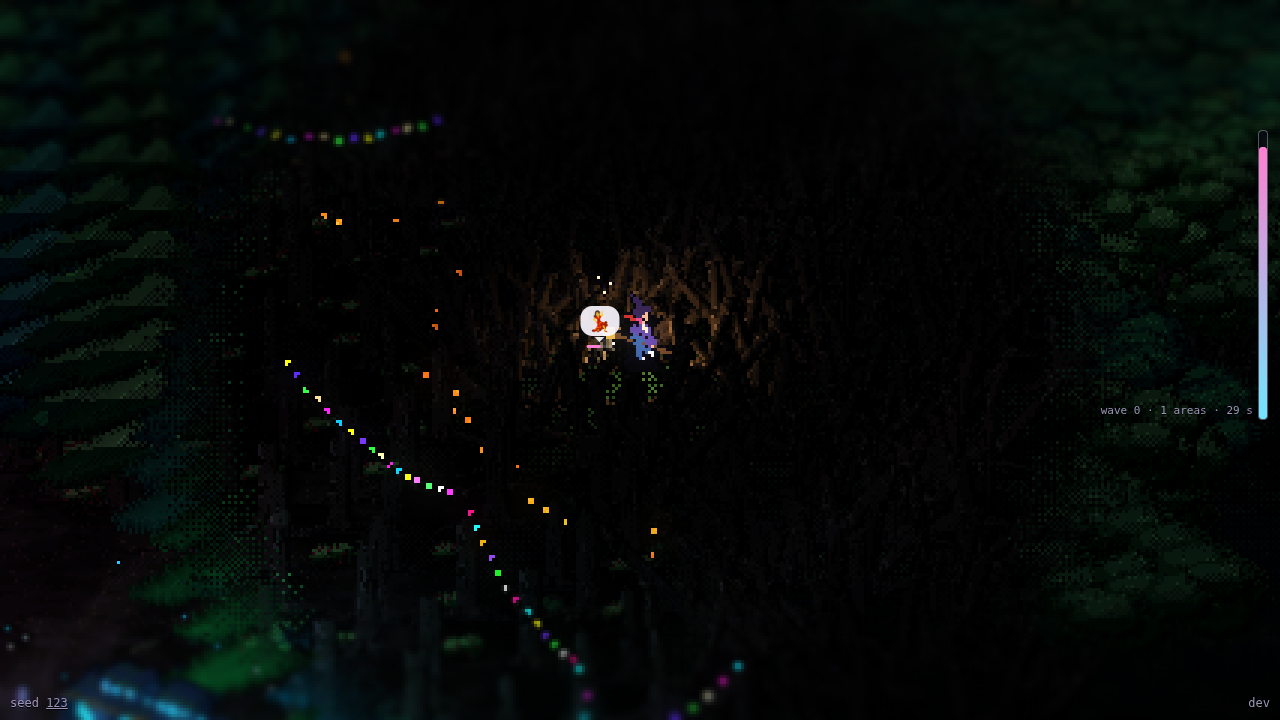
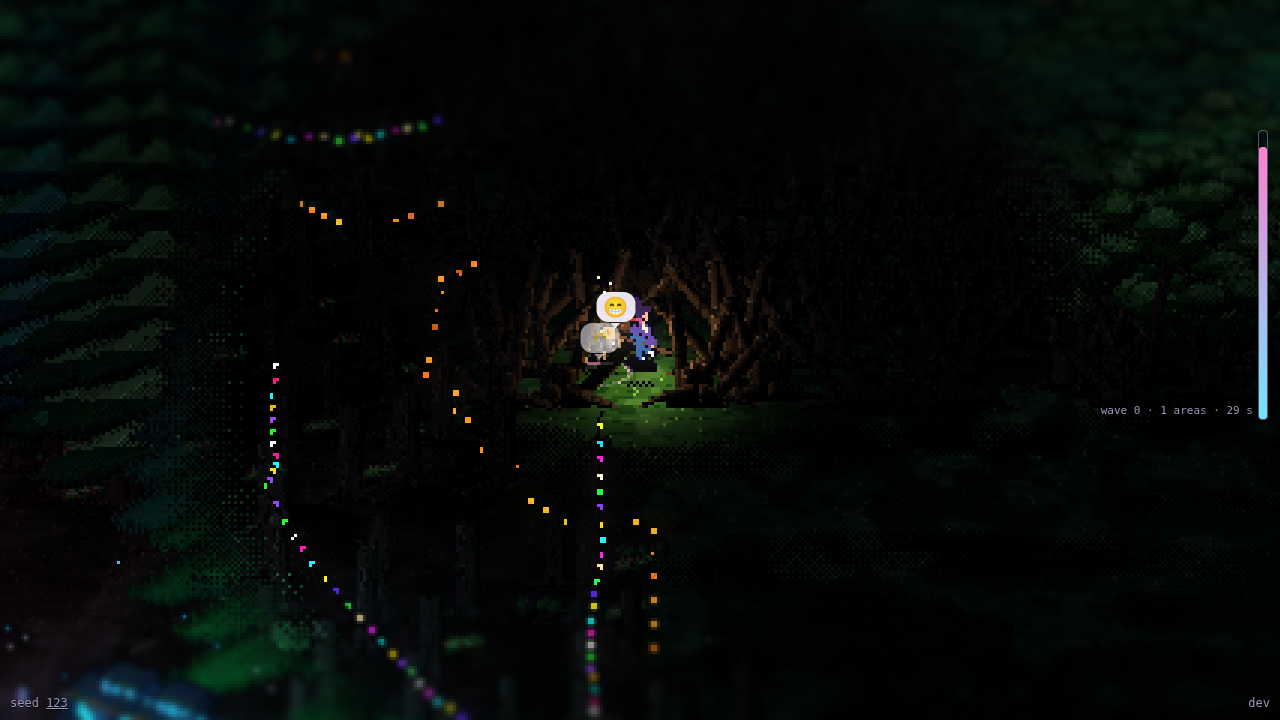
Quick tunings: no tree shadows, trees x0.8, bushes x0.45 in clumps, lasers 6x slower, Talk on F too and Sigil on R, talkRange 12, sigil stack above her hat at 65% as a chain of springs, facing towards unless heading up the screen
Claude-Session: https://claude.ai/code/session_01MR6jyHx6mcGYyfzATvhXK3

diff --git a/src/render/leash.ts b/src/render/leash.ts
@@ -108,6 +108,8 @@ export class LeashView {
   private flat: Instances;
   private fizzles: { x: number; z: number; at: number }[] = [];
   private bursts: { x: number; z: number; at: number; seed: number }[] = [];
+  private chain: { x: number; z: number; vx: number; vz: number }[] = [];
+  private lastTime = 0;
   private bubbleWitch = document.getElementById("bubble-witch");
   private bubbleCreature = document.getElementById("bubble-creature");
   private v = new THREE.Vector3();
@@ -157,7 +159,8 @@ export class LeashView {
     return [x / N, 1 - y / N, (x + SLOT) / N, 1 - (y + SLOT) / N];
   }
 
-  update(time: number, camera: THREE.Camera, width: number, height: number): void {
+  /** hatTop: the height of the tip of her hat this frame (the stack floats above it). */
+  update(time: number, camera: THREE.Camera, width: number, height: number, hatTop: number): void {
     const g = this.game, s = g.leash, t = g.tuning, w = g.witch, B = t.bond, L = t.leash, dot = this.uv(0);
     this.standing.begin(); this.flat.begin();
     for (const e of s.events) {
@@ -184,16 +187,27 @@ export class LeashView {
       }
     }
 
-    // The stack above her head: bottom (newest) nearest; sways, and trails behind when she's fast.
-    const head = witchHeight(w, t) + 1.4, slotPos = new Map<number, THREE.Vector3>();
-    for (let k = 0; k < s.stack.length; k++) {
-      const id = s.stack[k], c = g.creatures[id], j = s.stack.length - 1 - k; // j: 0 at the bottom
-      const sway = Math.sin(time * 1.7 + j * 0.9) * 0.12 * (1 + j * 0.5);
-      const trail = 0.02 * Math.pow(j + 1, 1.3);
-      const x = w.x + sway - w.vx * trail, z = w.z - w.vz * trail, y = head + 1.3 + j * 2.4;
-      slotPos.set(id, new THREE.Vector3(x, y, z));
+    // The stack above her hat: newest at the bottom. A chain of springs: each sigil follows the
+    // one below with lag, so the stack trails behind her flight in proportion to speed, overshoots
+    // when she stops or turns, and settles into a gentle idle sway; higher ones swing more.
+    const S = t.stack, dt = Math.min(0.1, Math.max(0, time - this.lastTime)), slotPos = new Map<number, THREE.Vector3>();
+    this.lastTime = time;
+    while (this.chain.length < s.stack.length) this.chain.push({ x: 0, z: 0, vx: 0, vz: 0 });
+    let below = { x: 0, z: 0 }, y = hatTop;
+    for (let k = s.stack.length - 1; k >= 0; k--) {
+      const id = s.stack[k], c = g.creatures[id], j = s.stack.length - 1 - k, link = this.chain[j]; // j: 0 at the bottom
+      const size = (2 + c.level * 0.4) * S.scale;
+      const idle = Math.sin(time * 1.7 + j * 0.9) * S.idleSway * (1 + j * 0.5);
+      const tx = below.x - w.vx * S.trail + idle, tz = below.z - w.vz * S.trail;
+      link.vx += ((tx - link.x) * S.stiffness - link.vx * S.damping) * dt; link.vz += ((tz - link.z) * S.stiffness - link.vz * S.damping) * dt;
+      link.x += link.vx * dt; link.z += link.vz * dt;
+      below = link;
+      y += (j === 0 ? S.offset * size : S.gap * size) + size / 2;
+      const pos = new THREE.Vector3(w.x + link.x, y, w.z + link.z);
+      y += size / 2;
+      slotPos.set(id, pos);
       const col = (this.slotOf(c.species, c.level), this.colours.get(c.species)!);
-      this.standing.add(x, y, z, 2 + c.level * 0.4, this.uv(this.slotOf(c.species, c.level)), col.r, col.g, col.b, 1);
+      this.standing.add(pos.x, pos.y, pos.z, size, this.uv(this.slotOf(c.species, c.level)), col.r, col.g, col.b, 1);
     }
 
     // Placed sigils, written on the ground.

diff --git a/src/rules/tuning.ts b/src/rules/tuning.ts
@@ -16,6 +16,8 @@ export interface Tuning {
   gladeAmount: number;
   gladeScale: number;
   bushDensity: number;
+  /** How much bushes gather in clumps with open floor between (0 even, 1 strongly clumped). */
+  bushClump: number;
   treeHeight: number;
   crownWidth: number;
   treeSpacingX: number;
@@ -31,6 +33,8 @@ export interface Tuning {
   /** Acceleration on the ground (snappier than the treetops' acceleration). */
   groundAcceleration: number;
   leanAt: number;
+  /** The away cone round straight up the screen, degrees: enter under awayEnter, leave over awayLeave. */
+  facing: { awayEnter: number; awayLeave: number };
   riseTime: number;
   descendTime: number;
   groundHeight: number;
@@ -56,7 +60,7 @@ export interface Tuning {
     specks: number; speckBrightness: number; speckReach: number;
   };
   canopyCutout: { screenFraction: number; edge: number };
-  shadows: { on: boolean; strength: number };
+  shadows: { on: boolean; strength: number; trees: boolean };
   canopyShadow: { on: boolean; strength: number; height: number; cover: number; wind: number };
   mist: { on: boolean; strength: number; height: number; wind: number };
   /** How mist, far haze and canopy dapple are drawn: smooth gradients, or dithered pixel steps. */
@@ -64,7 +68,8 @@ export interface Tuning {
   lights: { campfire: { reach: number; strength: number }; stone: { reach: number; strength: number } };
   glowPower: number;
   beat: { bpm: number };
-  lasers: { on: boolean; maxCount: number; length: number; spread: number; sweep: number; sweepBeats: number; opacity: number; duty: number; blockBars: number; fadeIn: number; fadeOut: number; fadeNear: number; fadeFar: number };
+  stack: { offset: number; scale: number; gap: number; stiffness: number; damping: number; trail: number; idleSway: number };
+  lasers: { on: boolean; maxCount: number; length: number; spread: number; sweep: number; sweepBeats: number; openBars: number; opacity: number; duty: number; blockBars: number; fadeIn: number; fadeOut: number; fadeNear: number; fadeFar: number };
   borders: { on: boolean; width: number; brightness: number; sparkle: number; step: number };
   invite: { talkRange: number; cancelDistance: number; talkTime: number[]; turn: number[] };
   leash: { length: number; runSpeed: number; pickRadius: number; spacing: number };

diff --git a/src/rules/witch.ts b/src/rules/witch.ts
@@ -16,7 +16,7 @@ export interface WitchState {
   mode: Mode;
   /** 1 facing right (east), -1 facing left. */
   facing: 1 | -1;
-  /** Turned away from the viewer: flying up the screen (north). Changes with a little hysteresis. */
+  /** Turned away from the viewer: only while clearly flying up the screen (see facingAway). */
   away: boolean;
   /** Leaning into fast flight: above leanAt of the mode's top speed. */
   lean: boolean;
@@ -28,6 +28,16 @@ export interface Intent {
   moveZ: number;
   /** Rise or descend was pressed this frame. */
   toggleMode: boolean;
+}
+
+/** Towards the viewer unless clearly heading up the screen (Ed, 2026-10-03): away only while the
+ *  heading is within the away cone round straight up (entering at awayEnter degrees, leaving at
+ *  awayLeave, so diagonals don't flicker) and moving faster than `minSpeed`. Sideways, downward
+ *  or stopped: towards. For the witch and the creatures alike. */
+export function facingAway(vx: number, vz: number, wasAway: boolean, minSpeed: number, t: Tuning): boolean {
+  if (Math.hypot(vx, vz) < minSpeed || vz >= 0) return false;
+  const angle = (Math.atan2(Math.abs(vx), -vz) * 180) / Math.PI; // 0 straight up the screen
+  return angle < (wasAway ? t.facing.awayLeave : t.facing.awayEnter);
 }
 
 export const NO_INTENT: Intent = { moveX: 0, moveZ: 0, toggleMode: false };
@@ -57,8 +67,6 @@ export function stepWitch(w: WitchState, intent: Intent, dt: number, t: Tuning, 
   if (x < bounds.minX || x > bounds.maxX) { x = clamp(x, bounds.minX, bounds.maxX); vx = 0; }
   if (z < bounds.minZ || z > bounds.maxZ) { z = clamp(z, bounds.minZ, bounds.maxZ); vz = 0; }
   const facing: 1 | -1 = vx > 0.3 ? 1 : vx < -0.3 ? -1 : w.facing;
-  // Away when clearly flying north, towards when clearly flying south; sideways keeps the last.
-  const speed = Math.hypot(vx, vz), turn = Math.max(1, max * 0.15);
-  const away = vz < -turn && -vz > Math.abs(vx) * 0.5 ? true : vz > turn && vz > Math.abs(vx) * 0.5 ? false : w.away;
+  const speed = Math.hypot(vx, vz), away = facingAway(vx, vz, w.away, Math.max(1, max * 0.15), t);
   return { x, z, vx, vz, lift, mode, facing, away, lean: speed > max * t.leanAt };
 }

diff --git a/src/render/view.ts b/src/render/view.ts
@@ -302,7 +302,7 @@ export class View {
       add(p.type, { x: p.x, y: 0, z: p.z, frame: f[big.bot], flip: p.flip, fresh });
       if (big.top !== null) add(p.type, { x: p.x, y: 0, z: p.z, frame: f[big.top], flip: p.flip, top: true, fresh });
       const w = whole.w * mpp, h = whole.h * mpp * (big.top === null ? 0.2 : 0.6);
-      shadows.push({ x: p.x + sx * h, z: p.z + sz * h, w: w * 0.8, d: w * 0.45 });
+      if (t.shadows.trees) shadows.push({ x: p.x + sx * h, z: p.z + sz * h, w: w * 0.8, d: w * 0.45 });
       nt++;
     }
     const scatter = (kind: string, list: Plant[], pick: (l: TypeArt["layout"]) => Piece[]) => {
@@ -459,14 +459,15 @@ export class View {
     const bob = Math.sin(time * 2.4) * 0.12;
     // Her hover frames, turned away when flying up the screen, leaning when fast.
     const wf = w.lean ? 6 + (w.away ? 1 : 0) : (w.away ? 3 : 0) + (Math.floor(time * 4) % 3);
-    this.witchBatch.set([{ x: w.x, y: h + bob - 0.4, z: w.z, frame: this.assets.witch.frames[wf], flip: w.facing < 0 }]);
+    const wframe = this.assets.witch.frames[wf], hatTop = h + bob - 0.4 + wframe.h * this.mpp;
+    this.witchBatch.set([{ x: w.x, y: h + bob - 0.4, z: w.z, frame: wframe, flip: w.facing < 0 }]);
     this.shadow.position.set(w.x, 0.03, w.z);
     this.shadow.scale.setScalar(1 - 0.5 * canopyShown(w));
 
     this.refresh();
     this.drawCreatures(time);
     this.checkPops("moving");
-    this.leashView.update(time, this.camera, this.canvas.clientWidth || window.innerWidth, this.canvas.clientHeight || window.innerHeight);
+    this.leashView.update(time, this.camera, this.canvas.clientWidth || window.innerWidth, this.canvas.clientHeight || window.innerHeight, hatTop);
     this.assets.work(6);
     // The ground's area tiles: everything the cameras can see, plus a band ahead.
     this.stats.pendingGround = this.ground.fill(this.renderer, this.viewRect(t.haze.far, 40), w.x, w.z, 4);

diff --git a/src/rules/creatures.ts b/src/rules/creatures.ts
@@ -5,6 +5,7 @@
 // Only those near the witch are simulated; the rest pick up where they would plausibly be.
 import { clamp, hash2, lerp, rng, smoothstep } from "./random";
 import { AREA_TYPES, type ForestMap } from "./map";
+import { facingAway } from "./witch";
 
 export type Level = 0 | 1 | 2 | 3;
 export const LEGEND = 3;
@@ -33,7 +34,7 @@ export interface Creature {
   rest: number;
   speed: number;
   facing: 1 | -1;
-  /** Turned away from the viewer (walking up the screen), with a little hysteresis. */
+  /** Turned away from the viewer: only while walking up the screen (see facingAway). */
   away: boolean;
   moving: boolean;
   /** Walk cycle clock, for the two walking frames. */
@@ -121,7 +122,7 @@ export function spawnCreatures(map: ForestMap): Creature[] {
 /** Roam: walk to a random spot in its own area, pause a while, pick another. It never crosses
  *  its area's border: a step that would cross it is not taken, and it chooses again. */
 export function stepCreature(c: Creature, dt: number, map: ForestMap): void {
-  if (c.rest > 0) { c.rest -= dt; c.moving = false; return; }
+  if (c.rest > 0) { c.rest -= dt; c.moving = false; c.away = false; return; }
   const dx = c.tx - c.x, dz = c.tz - c.z, d = Math.hypot(dx, dz);
   if (d < 0.05) {
     [c.tx, c.tz] = pointInArea(map, c, c.rand);
@@ -133,7 +134,7 @@ export function stepCreature(c: Creature, dt: number, map: ForestMap): void {
   if (!inCell(map, nx, nz, c.cell)) { c.tx = c.x; c.tz = c.z; c.moving = false; return; }
   c.x = nx; c.z = nz;
   if (Math.abs(dx) > 0.02) c.facing = dx > 0 ? 1 : -1;
-  if (dz < -0.3 * d) c.away = true; else if (dz > 0.3 * d) c.away = false; // up the screen is away
+  c.away = facingAway(dx, dz, c.away, 0, map.tuning); // away only while heading up the screen
   c.moving = true;
   c.walk += dt * (c.level === LEGEND ? 1.5 : 4);
 }

diff --git a/src/rules/forest.ts b/src/rules/forest.ts
@@ -2,7 +2,7 @@
 // dropped by the map's tree weight, so trees thicken toward area borders and leave a clearing
 // round each area's centre. Every cell is decided from the seed alone, so any patch of forest
 // can be produced on its own, near the camera, in any order, and always comes out the same.
-import { hash2 } from "./random";
+import { hash2, smoothstep, vnoise } from "./random";
 import { AREA_TYPES, type ForestMap } from "./map";
 
 export interface Plant {
@@ -50,8 +50,10 @@ function bushesInChunk(map: ForestMap, ci: number, cj: number): Plant[] {
   const j0 = Math.ceil((cj * CHUNK) / sp), j1 = Math.ceil(((cj + 1) * CHUNK) / sp);
   const i0 = Math.ceil((ci * CHUNK) / sp), i1 = Math.ceil(((ci + 1) * CHUNK) / sp);
   for (let j = j0; j < j1; j++) for (let i = i0; i < i1; i++) {
-    const x = (i + (hash2(i, j, s + 201) - 0.5) * 0.9) * sp, z = (j + (hash2(i, j, s + 202) - 0.5) * 0.9) * sp;
-    if (hash2(i, j, s + 203) > (0.12 + Math.min(1, map.treeWeight(x, z)) * 0.3) * map.tuning.bushDensity) continue;
+    // A full cell of jitter and a seeded clump mask, so they gather in clumps and gaps rather than rows.
+    const x = (i + hash2(i, j, s + 201) - 0.5) * sp, z = (j + hash2(i, j, s + 202) - 0.5) * sp;
+    const clump = 1 + map.tuning.bushClump * (2 * smoothstep((vnoise(x / 13, z / 13, s + 207) - 0.35) / 0.3) - 1);
+    if (hash2(i, j, s + 203) > (0.12 + Math.min(1, map.treeWeight(x, z)) * 0.3) * map.tuning.bushDensity * clump) continue;
     if (Math.hypot(x - map.dancefloor.x, z - map.dancefloor.z) < map.dancefloor.radius + 2) continue; // the dancefloor stays clear
     out.push({ x, z, type: map.areaAt(x, z).type, variant: Math.floor(hash2(i, j, s + 204) * BUSH_VARIANTS), flip: hash2(i, j, s + 205) < 0.5 });
   }

diff --git a/src/rules/rules.test.ts b/src/rules/rules.test.ts
@@ -5,7 +5,7 @@ import { makePartition } from "./partition";
 import { hash2 } from "./random";
 import { AREA_TYPES, generateMap, parseSeed } from "./map";
 import { Forest, crownReach } from "./forest";
-import { newWitch, stepWitch, witchHeight, NO_INTENT, canopyShown } from "./witch";
+import { newWitch, stepWitch, witchHeight, NO_INTENT, canopyShown, facingAway } from "./witch";
 import { newCamera, stepCamera, cameraPose } from "./camera";
 import { legendChance, population, spawnCreatures, stepCreature, stepCreaturesNear } from "./creatures";
 import { newGame, stepGame } from "./game";
@@ -707,5 +707,18 @@ describe("area borders", () => {
     expect(ok / pts.length).toBeGreaterThan(0.95);
     expect(new Set(pts.map(p => p.other)).size).toBeGreaterThanOrEqual(3);
     console.log(`border: ${pts.length} points in ${ms.toFixed(0)} ms`);
+  });
+});
+
+describe("facing", () => {
+  it("faces the viewer unless clearly heading up the screen, with a little hysteresis on the cone", () => {
+    const deg = (a: number) => [Math.sin((a * Math.PI) / 180) * 10, -Math.cos((a * Math.PI) / 180) * 10] as const;
+    expect(facingAway(...deg(0), false, 1, TUNING)).toBe(true);    // straight up
+    expect(facingAway(...deg(90), true, 1, TUNING)).toBe(false);   // purely sideways: towards, even if it was away
+    expect(facingAway(...deg(180), true, 1, TUNING)).toBe(false);  // down
+    expect(facingAway(0, 0, true, 1, TUNING)).toBe(false);          // stopped
+    const between = (TUNING.facing.awayEnter + TUNING.facing.awayLeave) / 2;
+    expect(facingAway(...deg(between), false, 1, TUNING)).toBe(false); // not yet in
+    expect(facingAway(...deg(between), true, 1, TUNING)).toBe(true);   // not yet out
   });
 });

diff --git a/src/rules/leash.ts b/src/rules/leash.ts
@@ -8,6 +8,7 @@
 // No drawing here.
 import { LEGEND, type Creature } from "./creatures";
 import type { Tuning } from "./tuning";
+import { facingAway } from "./witch";
 
 export interface PlacedSigil { id: number; x: number; z: number; /** game time it was put down */ at: number }
 
@@ -142,12 +143,12 @@ export function stepLeashed(c: Creature, px: number, pz: number, dt: number, t: 
     const d = Math.hypot(c.x - px, c.z - pz), k = (len * 0.5) / d;
     c.tx = px + (c.x - px) * k; c.tz = pz + (c.z - pz) * k;
     c.rest = 0;
-  } else if (c.rest > 0) { c.rest -= dt; c.moving = false; return; }
+  } else if (c.rest > 0) { c.rest -= dt; c.moving = false; c.away = false; return; }
   else if (Math.hypot(c.tx - px, c.tz - pz) > len * 0.85 || Math.hypot(c.tx - c.x, c.tz - c.z) < 0.05) {
     if (Math.hypot(c.tx - c.x, c.tz - c.z) < 0.05) c.rest = 0.5 + c.rand() * 2;
     const a = c.rand() * Math.PI * 2, r = Math.sqrt(c.rand()) * len * 0.8;
     c.tx = px + Math.cos(a) * r; c.tz = pz + Math.sin(a) * r;
-    if (c.rest > 0) { c.moving = false; return; }
+    if (c.rest > 0) { c.moving = false; c.away = false; return; }
   }
   const dx = c.tx - c.x, dz = c.tz - c.z, d = Math.hypot(dx, dz);
   if (d < 1e-4) { c.moving = false; return; }
@@ -155,7 +156,7 @@ export function stepLeashed(c: Creature, px: number, pz: number, dt: number, t: 
   const step = Math.min(d, speed * dt);
   c.x += (dx / d) * step; c.z += (dz / d) * step;
   if (Math.abs(dx) > 0.02) c.facing = dx > 0 ? 1 : -1;
-  if (dz < -0.3 * d) c.away = true; else if (dz > 0.3 * d) c.away = false;
+  c.away = facingAway(dx, dz, c.away, 0, t);
   c.moving = true;
   c.walk += dt * (far ? 7 : 4);
 }

diff --git a/src/platform/input.ts b/src/platform/input.ts
@@ -1,7 +1,7 @@
 // Gathers the player's input from keyboard, gamepad and touch into one set of controls per frame.
 // Keyboard: WASD or arrows to fly, space to rise or descend, Z/X or +/- to zoom in/out, ~ for
-// debug, hold T or Shift to talk (invite), E to put down or pick up a sigil, I (debug) to invite
-// the nearest creature.
+// debug, hold T, F or Shift to talk (invite), E or R to put down or pick up a sigil, I (debug) to
+// invite the nearest creature.
 // Gamepad: left stick (or d-pad) to fly, hold A to talk, X for the sigil, Y to rise or descend,
 // shoulders or triggers to zoom, Back/Select for debug. Touch: the joystick and buttons in ui/touch.ts write into `touch`.
 import type { Controls } from "../rules/game";
@@ -29,7 +29,7 @@ export class Input {
   }
 
   private isGameKey(code: string): boolean {
-    return /^(Arrow|Space$|Key[WASDZXENPTI]$|Shift|Minus$|Equal$|NumpadAdd$|NumpadSubtract$|Backquote$)/.test(code);
+    return /^(Arrow|Space$|Key[WASDZXENPTIFR]$|Shift|Minus$|Equal$|NumpadAdd$|NumpadSubtract$|Backquote$)/.test(code);
   }
 
   /** Forget presses not yet read (the press that started the game is not also a move). */
@@ -49,7 +49,7 @@ export class Input {
     let toggleMode = p("Space");
     let zoom = (p("KeyX") || p("Minus") || p("NumpadSubtract") ? 1 : 0) - (p("KeyZ") || p("Equal") || p("NumpadAdd") ? 1 : 0);
     let debug = p("Backquote");
-    let talk = k("KeyT") + k("ShiftLeft") + k("ShiftRight") > 0, sigil = p("KeyE");
+    let talk = k("KeyT") + k("KeyF") + k("ShiftLeft") + k("ShiftRight") > 0, sigil = p("KeyE") || p("KeyR");
     const inviteNearest = p("KeyI");
     this.pressed.clear();
 

diff --git a/index.html b/index.html
@@ -76,7 +76,7 @@
       <div>a prototype: fly the witch round the forest at night</div>
       <div class="go">Tap, click or press any key to start</div>
       <div class="keys">
-        <b>Keyboard</b> WASD or arrows fly · space rises or descends · Z/X or +/− zoom · hold T or Shift to talk (invite) · E puts down / picks up a sigil · ~ debug · N next wave · P pause waves · I invite nearest (debug)<br>
+        <b>Keyboard</b> WASD or arrows fly · space rises or descends · Z/X or +/− zoom · hold T, F or Shift to talk (invite) · E or R puts down / picks up a sigil · ~ debug · N next wave · P pause waves · I invite nearest (debug)<br>
         <b>Gamepad</b> left stick flies · hold A to talk · X sigil · Y rises or descends · shoulders zoom<br>
         <b>Phone</b> drag on the left to fly · the round button rises or descends · hold talk near a creature · sigil puts down or picks up · three-finger tap for debug
       </div>

diff --git a/src/rules/lasers.ts b/src/rules/lasers.ts
@@ -37,7 +37,7 @@ export function laserShow(time: number, seed: number, energy: number, t: Tuning)
   const count = choices[Math.floor(hash2(seed, block * 64 + barIdx, 313) * choices.length) % choices.length] ?? 1;
   const ph = (seed % 97) * 0.37;
   const sweep = Math.sin((2 * Math.PI * time) / (beat * L.sweepBeats) + ph) * (L.sweep * Math.PI) / 180;
-  const open = 0.55 + 0.45 * Math.sin((2 * Math.PI * time) / (bar * 2) + ph * 2);
+  const open = 0.55 + 0.45 * Math.sin((2 * Math.PI * time) / (bar * L.openBars) + ph * 2);
   const hue = (((seed % 1000) * 0.0137 + time / (bar * 8)) % 1 + 1) % 1;
   return { on, count, sweep, open, hue };
 }
